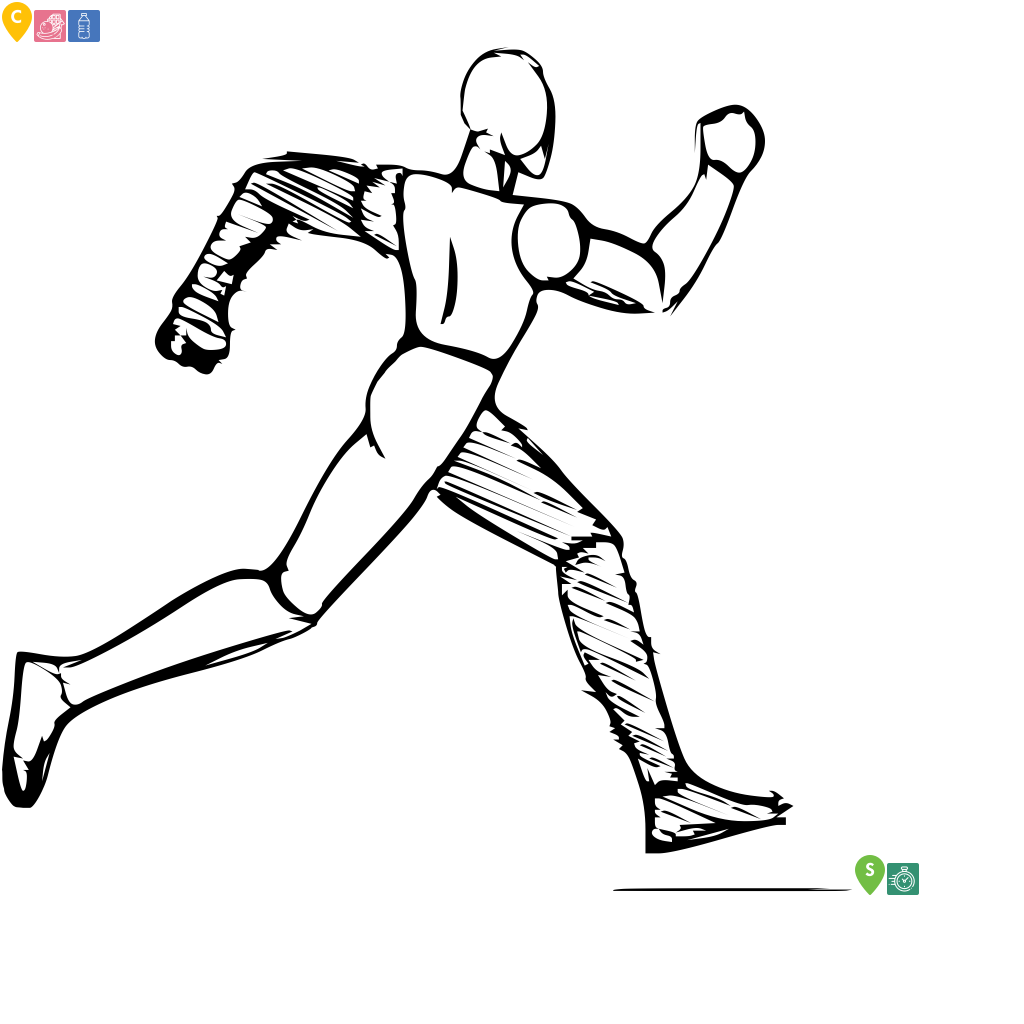
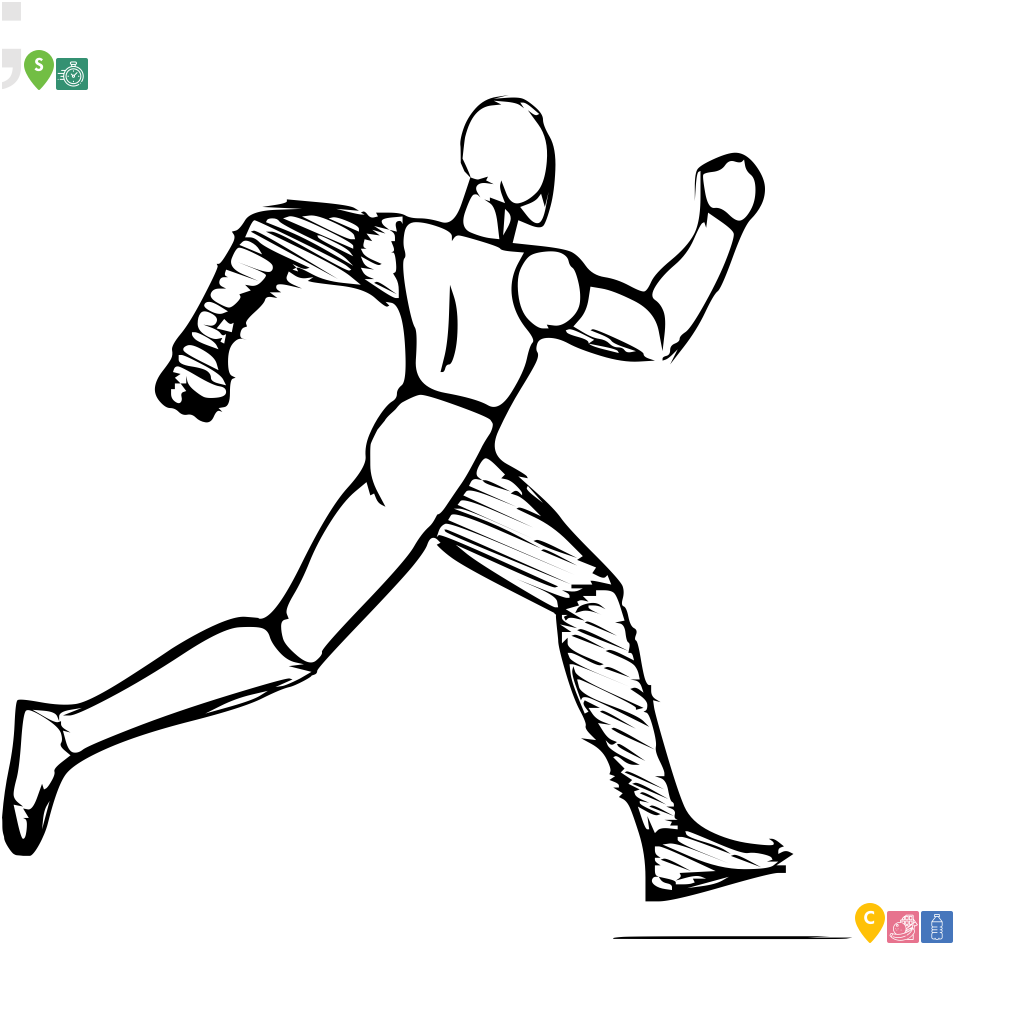
animation implemented with runner

Changed region(s): [[0.0, 0.0312, 0.7812, 0.9062], [0.8125, 0.8125, 0.9375, 0.9375], [0.0, 0.0, 0.0938, 0.0938]]

diff --git a/core/src/com/mygdx/game/RunnerAnimation.java b/core/src/com/mygdx/game/RunnerAnimation.java
@@ -1,49 +1,64 @@
 package com.mygdx.game;
 
-import com.badlogic.gdx.graphics.Texture;
+import com.badlogic.gdx.assets.AssetManager;
+import com.badlogic.gdx.graphics.g2d.TextureAtlas;
 import com.badlogic.gdx.math.Vector2;
 import com.badlogic.gdx.scenes.scene2d.Actor;
 import com.badlogic.gdx.scenes.scene2d.actions.Actions;
 import com.badlogic.gdx.scenes.scene2d.actions.SequenceAction;
 import com.badlogic.gdx.scenes.scene2d.ui.Image;
+import com.badlogic.gdx.scenes.scene2d.utils.TextureRegionDrawable;
+import com.mygdx.game.assets.AssetDescriptors;
+import com.mygdx.game.assets.RegionNames;
 import com.mygdx.game.utils.Geolocation;
 import com.mygdx.game.utils.MapRasterTiles;
 import com.mygdx.game.utils.ZoomXY;
 
-public class BoatAnimation {
+public class RunnerAnimation {
     private Geolocation[] geolocations;
     private Vector2[] positions;
     private Vector2[] interpolatedPositions;
+    private TextureAtlas gameplayAtlas;
+    private final VirtualRunner game;
+    private final AssetManager assetManager;
 
-    public BoatAnimation(Geolocation[] geolocations, ZoomXY beginTile, int numInterpolatedPoints){
+    public RunnerAnimation(Geolocation[] geolocations, ZoomXY beginTile, int numInterpolatedPoints, VirtualRunner game) {
         this.geolocations = geolocations;
         positions = positionsFromGeolocations(geolocations, beginTile);
         interpolatedPositions = getInterpolatedPositions(positions, numInterpolatedPoints);
+        this.game = game;
+        assetManager = game.getAssetManager();
+        assetManager.load(AssetDescriptors.PARTICLE_SNOW);
+        assetManager.load(AssetDescriptors.PARTICLE_RAIN);
+        assetManager.load(AssetDescriptors.UI_SKIN);
+        assetManager.load(AssetDescriptors.GAMEPLAY);
+        assetManager.load(AssetDescriptors.UI_FONT);
+        assetManager.finishLoading();
+        gameplayAtlas = assetManager.get(AssetDescriptors.GAMEPLAY);
     }
 
     public Actor create() {
-        Image boat = new Image(new Texture("android/assets/boat.png"));
-        boat.setWidth(50f);
-        boat.setHeight(50f);
+        Image man = new Image(new TextureRegionDrawable(gameplayAtlas.findRegion(RegionNames.MAN)));
+        man.setWidth(40f);
+        man.setHeight(50f);
 
-        boat.setPosition(interpolatedPositions[0].x, interpolatedPositions[0].y);
-        boat.setRotation(10);
+        man.setPosition(interpolatedPositions[0].x, interpolatedPositions[0].y);
+        man.setRotation(10);
         SequenceAction sequenceAction = new SequenceAction();
-        int factorRotation = 20;
-        float duration = 2f;
+        float duration = 0.1f;
         for(int i=1; i<interpolatedPositions.length; i++){
-            factorRotation *= -1;
             sequenceAction.addAction(
-                    Actions.parallel(
+                    Actions.sequence(
                             Actions.moveTo(interpolatedPositions[i].x, interpolatedPositions[i].y, duration),
-                            Actions.rotateBy(factorRotation, duration)
+                            Actions.moveBy(0, 5, duration), // Move up
+                            Actions.moveBy(0, -5, duration) // Move down
                     )
             );
         }
         sequenceAction.addAction(Actions.removeActor());
-        boat.addAction(sequenceAction);
+        man.addAction(sequenceAction);
 
-        return boat;
+        return man;
     }
 
     public Geolocation[] getGeolocations() {
@@ -64,20 +79,20 @@ public class BoatAnimation {
         return interpolatedPositions;
     }
 
-    static private Vector2[] positionsFromGeolocations(Geolocation[] geolocations, ZoomXY beginTile){
+    static private Vector2[] positionsFromGeolocations(Geolocation[] geolocations, ZoomXY beginTile) {
         Vector2[] positions = new Vector2[geolocations.length];
-        for(int i=0; i<geolocations.length; i++)
+        for (int i = 0; i < geolocations.length; i++)
             positions[i] = MapRasterTiles.getPixelPosition(geolocations[i].lat, geolocations[i].lng, beginTile.x, beginTile.y);
         return positions;
     }
 
-    static private Vector2[] getInterpolatedPositions(Vector2[] positions, int num){
+    static private Vector2[] getInterpolatedPositions(Vector2[] positions, int num) {
         Vector2[] interpolatedAll = new Vector2[positions.length + (positions.length - 1) * num];
 
-        for(int i=0; i<positions.length - 1; i++){
+        for (int i = 0; i < positions.length - 1; i++) {
             interpolatedAll[i * (num + 1)] = positions[i];
-            Vector2[] interpolatedPos = getInterpolatedPositions(positions[i], positions[i+1], num, 5);
-            for(int j=0; j<interpolatedPos.length; j++){
+            Vector2[] interpolatedPos = getInterpolatedPositions(positions[i], positions[i + 1], num, 5);
+            for (int j = 0; j < interpolatedPos.length; j++) {
                 interpolatedAll[i * (num + 1) + j + 1] = interpolatedPos[j];
             }
         }
@@ -85,7 +100,7 @@ public class BoatAnimation {
         return interpolatedAll;
     }
 
-    static private Vector2[] getInterpolatedPositions(Vector2 point1, Vector2 point2, int num, float deviation){
+    static private Vector2[] getInterpolatedPositions(Vector2 point1, Vector2 point2, int num, float deviation) {
         Vector2[] positions = new Vector2[num];
 
         // linear equation
@@ -95,10 +110,10 @@ public class BoatAnimation {
         float distanceX = point2.x - point1.x;
         float deltaX = distanceX / (num + 1);
         float x, y;
-        for(int i=0; i<num; i++){
-            x = point1.x + deltaX + deltaX*i;
-            y = m*x+b;
-            if(i%2 == 0) {
+        for (int i = 0; i < num; i++) {
+            x = point1.x + deltaX + deltaX * i;
+            y = m * x + b;
+            if (i % 2 == 0) {
                 y += deviation;
                 x += deviation;
             }

diff --git a/core/src/com/mygdx/game/screen/MapScreen.java b/core/src/com/mygdx/game/screen/MapScreen.java
@@ -1,8 +1,5 @@
 package com.mygdx.game.screen;
 
-import static com.mygdx.game.assets.RegionNames.TABLE_BACKGROUND;
-import static com.mygdx.game.assets.RegionNames.TABLE_BACKGROUND_2;
-
 import com.badlogic.gdx.Gdx;
 import com.badlogic.gdx.Input;
 import com.badlogic.gdx.InputMultiplexer;
@@ -39,7 +36,7 @@ import com.badlogic.gdx.utils.Align;
 import com.badlogic.gdx.utils.ScreenUtils;
 import com.badlogic.gdx.utils.viewport.FitViewport;
 import com.mongodb.client.FindIterable;
-import com.mygdx.game.BoatAnimation;
+import com.mygdx.game.RunnerAnimation;
 import com.mygdx.game.VirtualRunner;
 import com.mygdx.game.assets.AssetDescriptors;
 import com.mygdx.game.mylang.Context;
@@ -97,7 +94,7 @@ public class MapScreen extends ScreenAdapter implements GestureDetector.GestureL
             new Geolocation(46.5555f, 15.647974f),
             new Geolocation(46.5553f, 15.657766f)
     };
-    BoatAnimation boatAnimation;
+    RunnerAnimation runnerAnimation;
 
     // center geolocation
 
@@ -118,9 +115,9 @@ public class MapScreen extends ScreenAdapter implements GestureDetector.GestureL
 
 
     public void createBoat() {
-        boatAnimation = new BoatAnimation(runCoordinates, beginTile, 5);
+        runnerAnimation = new RunnerAnimation(runCoordinates, beginTile, 5, game);
         stage = new Stage(viewport, spriteBatch);
-        stage.addActor(boatAnimation.create());
+        stage.addActor(runnerAnimation.create());
     }
 
     public void removeBoat() {
@@ -310,11 +307,11 @@ public class MapScreen extends ScreenAdapter implements GestureDetector.GestureL
         shapeRenderer.end();
 
         // boat positions
-        for (int i = 0; i < boatAnimation.getInterpolatedPositions().length; i++) {
+        for (int i = 0; i < runnerAnimation.getInterpolatedPositions().length; i++) {
             shapeRenderer.setProjectionMatrix(camera.combined);
             shapeRenderer.setColor(Color.BLACK);
             shapeRenderer.begin(ShapeRenderer.ShapeType.Filled);
-            shapeRenderer.circle(boatAnimation.getInterpolatedPositions()[i].x, boatAnimation.getInterpolatedPositions()[i].y, 7);
+            shapeRenderer.circle(runnerAnimation.getInterpolatedPositions()[i].x, runnerAnimation.getInterpolatedPositions()[i].y, 7);
             shapeRenderer.end();
         }
     }
@@ -342,7 +339,7 @@ public class MapScreen extends ScreenAdapter implements GestureDetector.GestureL
             }
         }
         centerGeolocation = calculateCenter(runCoordinates);
-        boatAnimation.setGeolocations(runCoordinates, beginTile, 5);
+        runnerAnimation.setGeolocations(runCoordinates, beginTile, 5);
         removeBoat();
         createMap();
         createBoat();
@@ -447,7 +444,7 @@ public class MapScreen extends ScreenAdapter implements GestureDetector.GestureL
         animButton.addListener(new ClickListener() {
             @Override
             public void clicked(InputEvent event, float x, float y) {
-                stage.addActor(boatAnimation.create());
+                stage.addActor(runnerAnimation.create());
             }
         });
 

diff --git a/core/src/com/mygdx/game/assets/RegionNames.java b/core/src/com/mygdx/game/assets/RegionNames.java
@@ -26,6 +26,7 @@ public class RegionNames {
     public static final String FOOD = "food";
     public static final String WATER = "water";
     public static final String TIME = "time";
+    public static final String MAN = "man";
 
     private RegionNames() {
     }
